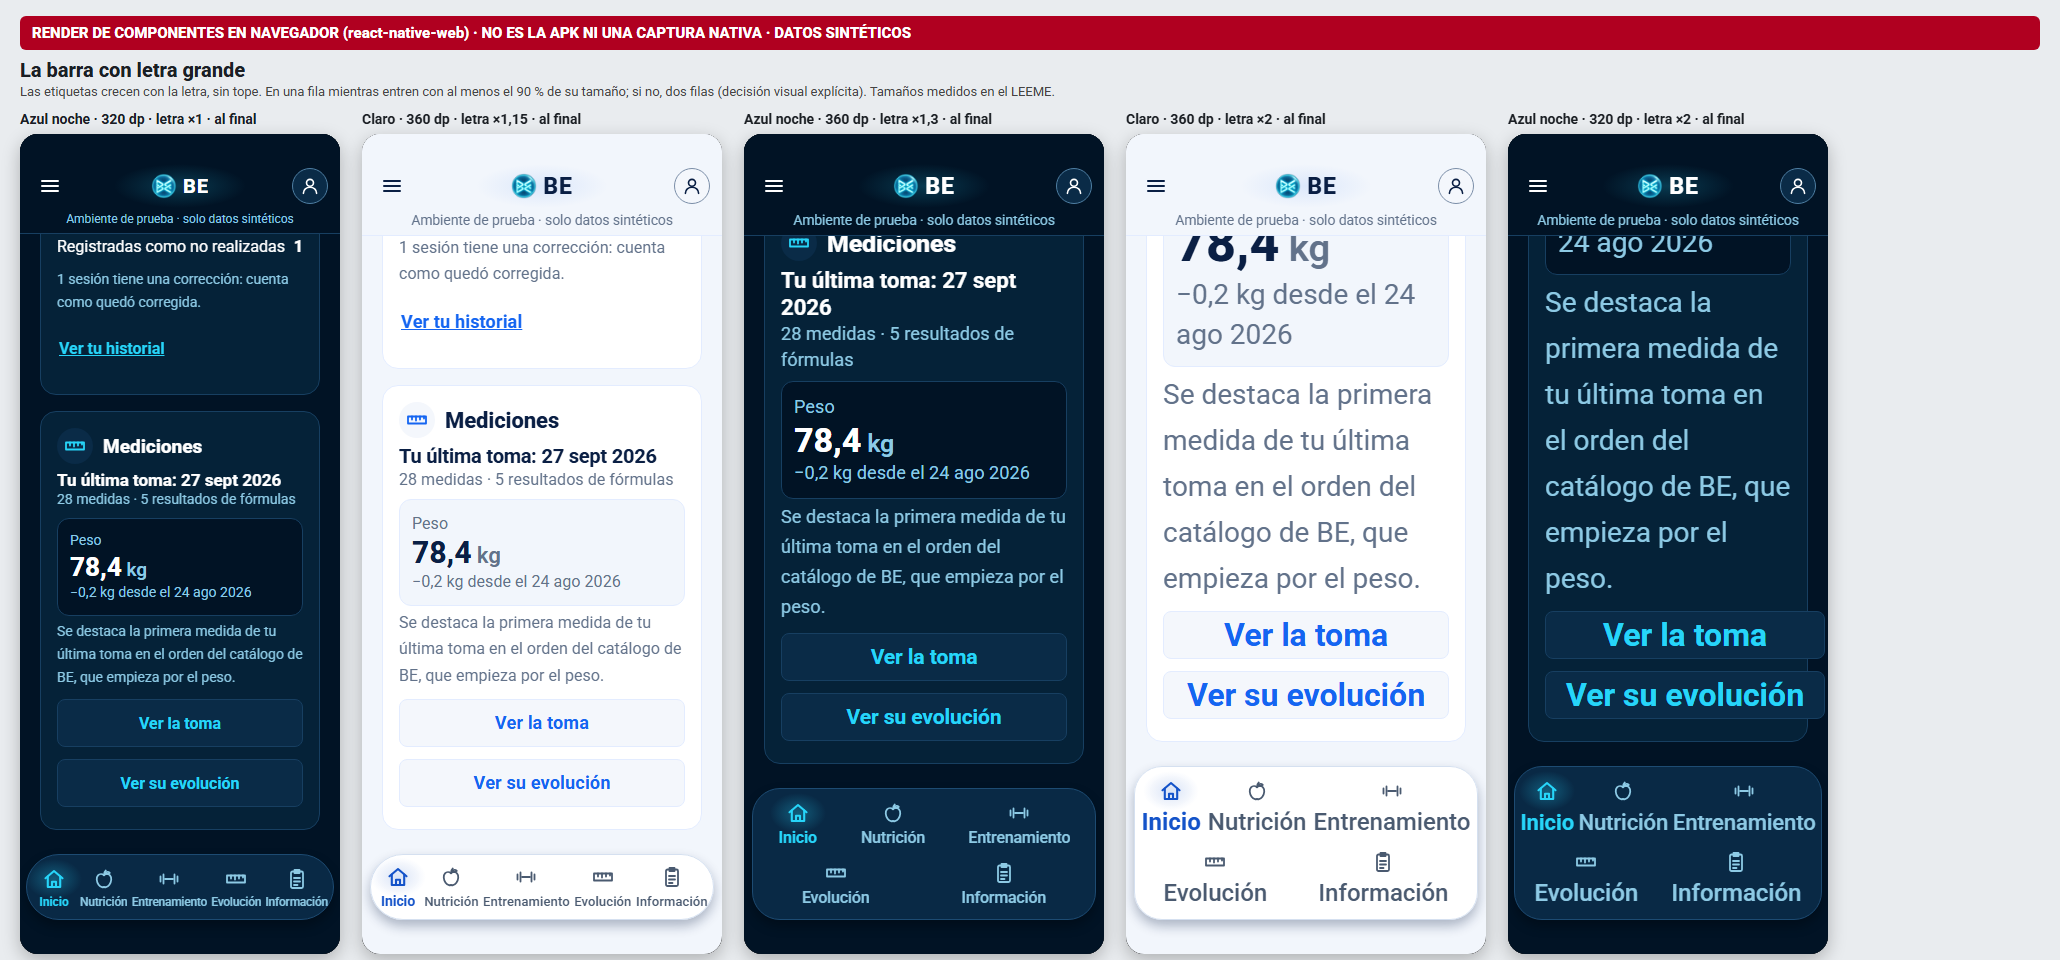
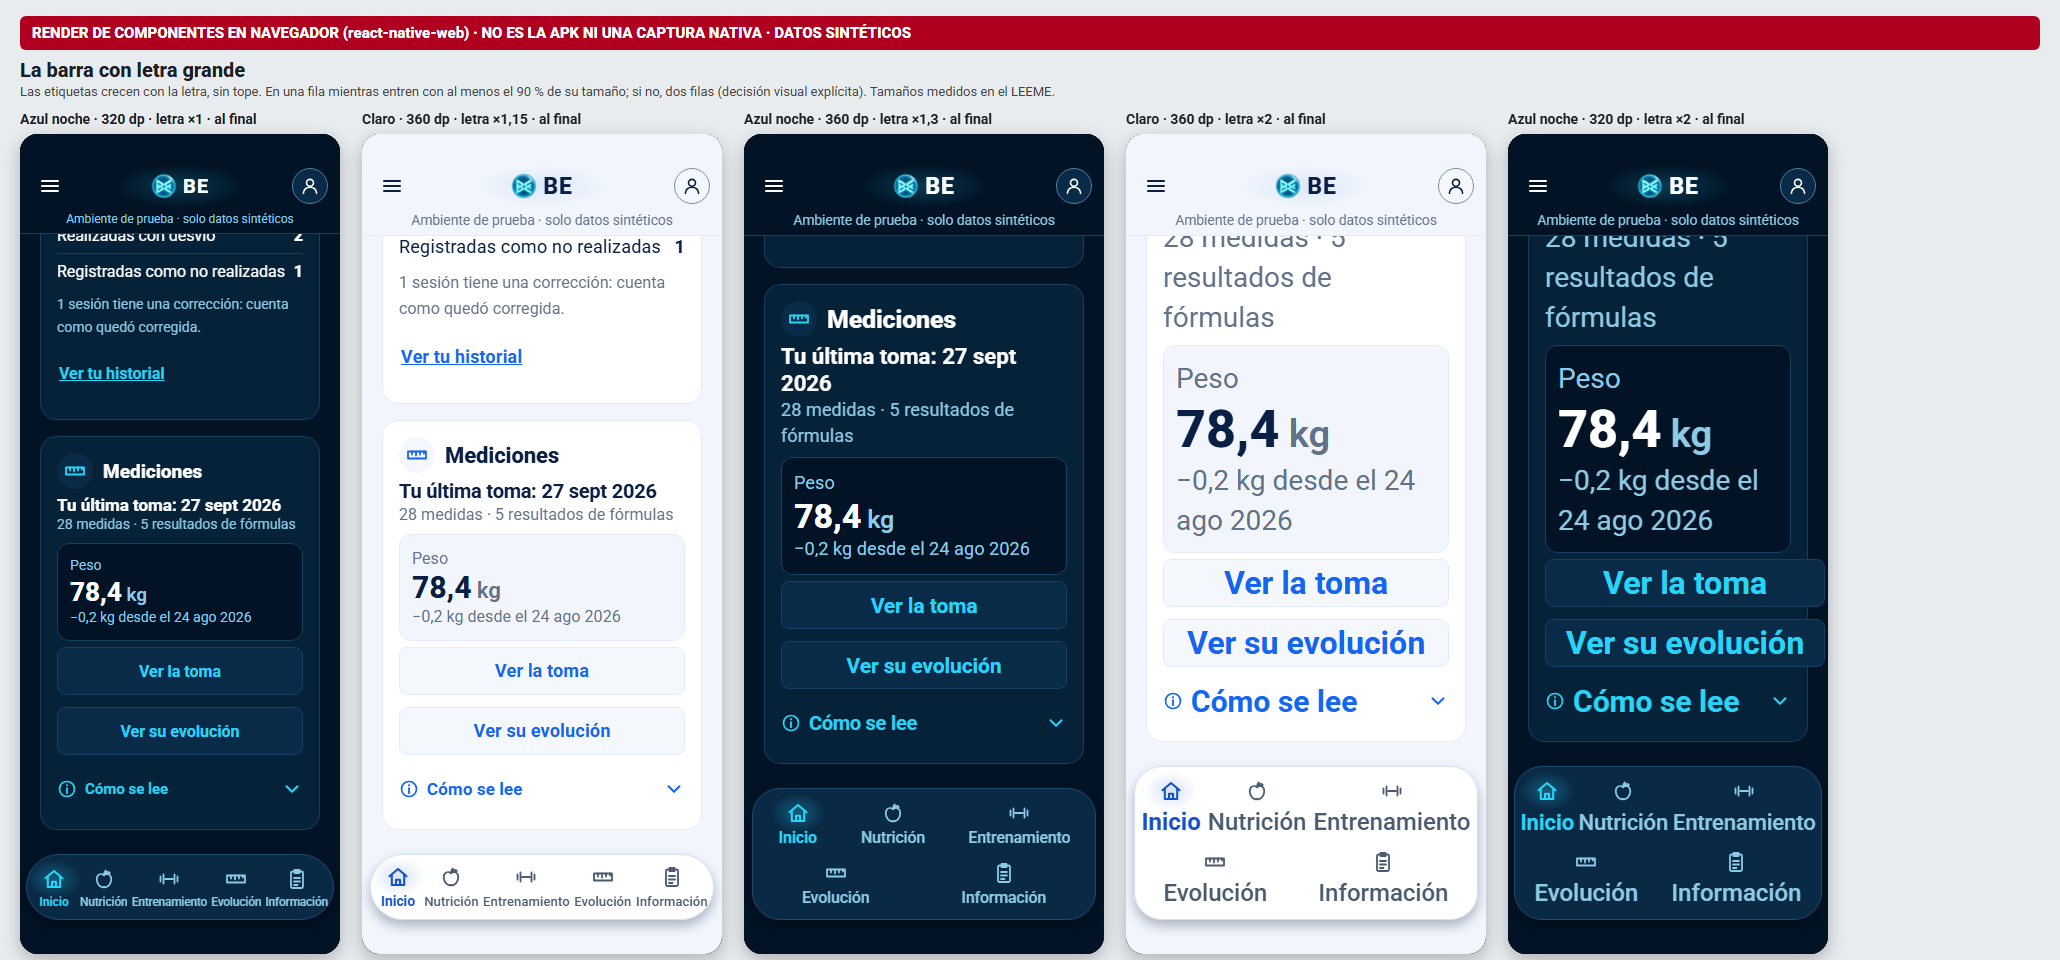
Evidencia y guía del pulido del mapa: cuatro capturas individuales, antes y después, encuadres y control de cortes
- Capturas 12 a 15. Una pantalla cada una y al doble de píxeles, para verlas en el teléfono sin ampliar:
  - Perímetros con letra normal;
  - Pliegues con letra normal;
  - Indicadores con letra normal;
  - la adaptación con letra ×1,3.
- Capturas 16 y 17: antes (6acc4c0) y después, con el mismo simulador y los mismos datos.
- Captura 18: los encuadres A (el actual), B (la elegida) y C (más recortada).
- Capturas 01 a 11, rehechas con la candidata del pulido. De la 05 a la 09, los teléfonos son más altos en lugar de
  desplazados.
- Herramientas:
  - cortes.js compara el ancho de cada texto de una línea con el de su caja. En 19 configuraciones, ninguno quedó
    cortado.
  - capturar-pulido.sh hace las capturas 12 a 18.
  - construir.mjs suma BE_REPO, BE_DEPENDENCIAS, SALIDA y ENCUADRE, para compilar el «antes» y la variante C sin tocar
    el código. Se verificó que reproduce byte a byte la candidata y el «antes».
  - cdp.mjs suma la escala de pantalla, y comparacion.html la página y el nombre de cada teléfono.
  - Un .gitignore local deja fuera lo generado.
- LEEME: el pulido con sus números, lo comprobado y los límites del simulador. También dice que las referencias visuales
  del pedido no llegaron.
- Guía de UX: pestañas y píldoras, vidrio, encuadre y filas.
- INICIO-Y-NAVEGACION §4 bis: cabecera, encuadre, filas, indicadores y D-3.

TRACE: DL-117 (pulido del 2026-10-04)
TEST:
- Documental y de evidencia.
[…]

diff --git a/EVIDENCIA/INICIO-Y-NAVEGACION/herramientas/render-navegador/salida/comparacion.html b/EVIDENCIA/INICIO-Y-NAVEGACION/herramientas/render-navegador/salida/comparacion.html
@@ -27,16 +27,16 @@
   document.getElementById('nota').textContent = p.get('nota') || '';
   const NOMBRE = { 'azul-noche': 'Azul noche', claro: 'Claro' };
   for (const m of (p.get('m') || '').split(';').filter(Boolean)) {
-    const [escena, tema, ancho, escala, alto = '780', extra = ''] = m.split('|');
+    const [escena, tema, ancho, escala, alto = '780', extra = '', pagina = 'telefono', nombre = ''] = m.split('|');
     const marco = document.createElement('div');
     marco.className = 'marco';
     const rotulo = document.createElement('div');
     rotulo.className = 'rotulo';
-    rotulo.textContent = `${NOMBRE[tema] || tema} · ${ancho} dp · letra ×${escala.replace('.', ',')}${extra.includes('final=1') ? ' · al final' : ''}${extra.includes('abajo=48') ? ' · 3 botones' : ''}`;
+    rotulo.textContent = `${nombre ? nombre + ' · ' : ''}${NOMBRE[tema] || tema} · ${ancho} dp · letra ×${escala.replace('.', ',')}${extra.includes('final=1') ? ' · al final' : ''}${extra.includes('abajo=48') ? ' · 3 botones' : ''}`;
     const f = document.createElement('iframe');
     f.width = ancho;
     f.height = alto;
-    f.src = `telefono.html?escena=${escena}&tema=${tema}&ancho=${ancho}&alto=${alto}&escala=${escala}${extra ? '&' + extra : ''}`;
+    f.src = `${pagina}.html?escena=${escena}&tema=${tema}&ancho=${ancho}&alto=${alto}&escala=${escala}${extra ? '&' + extra : ''}`;
     marco.append(rotulo, f);
     document.getElementById('fila').append(marco);
   }

diff --git a/EVIDENCIA/INICIO-Y-NAVEGACION/herramientas/render-navegador/cortes.js b/EVIDENCIA/INICIO-Y-NAVEGACION/herramientas/render-navegador/cortes.js
@@ -1,0 +1,22 @@
+(() => {
+  // Los textos que no entran en su caja: con numberOfLines, react-native-web los corta con «…» sin avisar. Se mide con
+  // decimales (Range), como el ajuste de la barra. Devuelve cuántos textos se miraron y cuáles quedaron cortados.
+  const docs = [document, ...[...document.querySelectorAll('iframe')].map((f) => f.contentDocument).filter(Boolean)];
+  const cortados = [];
+  let mirados = 0;
+  for (const d of docs) {
+    for (const el of d.querySelectorAll('div[dir], span[dir]')) {
+      if (!el.textContent || el.children.length > 0) continue;
+      const estilo = d.defaultView.getComputedStyle(el);
+      const recorta = estilo.overflow === 'hidden' || estilo.textOverflow === 'ellipsis' || estilo.webkitLineClamp !== 'none';
+      if (!recorta) continue;
+      mirados++;
+      const rango = d.createRange();
+      rango.selectNodeContents(el);
+      const r = rango.getBoundingClientRect();
+      const caja = el.getBoundingClientRect();
+      if (r.width > caja.width + 0.5 || el.scrollHeight > el.clientHeight + 1) cortados.push(el.textContent.slice(0, 40));
+    }
+  }
+  return JSON.stringify({ mirados, cortados });
+})()

diff --git a/EVIDENCIA/INICIO-Y-NAVEGACION/herramientas/render-navegador/salida/telefono-antes.html b/EVIDENCIA/INICIO-Y-NAVEGACION/herramientas/render-navegador/salida/telefono-antes.html
@@ -1,0 +1,24 @@
+<!doctype html>
+<html lang="es">
+<head>
+<meta charset="utf-8">
+<meta name="viewport" content="width=device-width, initial-scale=1">
+<title>Render en navegador</title>
+<link rel="preconnect" href="https://fonts.googleapis.com">
+<link rel="stylesheet" href="https://fonts.googleapis.com/css2?family=Roboto:wght@400;500;600;700;800;900&display=block">
+<style>
+  html, body { margin: 0; padding: 0; background: #2b2b2b; }
+  #root { position: relative; width: var(--ancho); height: var(--alto); overflow: hidden; display: flex; }
+  * { font-family: Roboto, Arial, sans-serif !important; }
+</style>
+</head>
+<body>
+<div id="root"></div>
+<script>
+  const p = new URLSearchParams(location.search);
+  document.documentElement.style.setProperty('--ancho', (p.get('ancho') || '360') + 'px');
+  document.documentElement.style.setProperty('--alto', (p.get('alto') || '780') + 'px');
+</script>
+<script src="maqueta-antes.js"></script>
+</body>
+</html>

diff --git a/EVIDENCIA/INICIO-Y-NAVEGACION/herramientas/render-navegador/salida/telefono-c.html b/EVIDENCIA/INICIO-Y-NAVEGACION/herramientas/render-navegador/salida/telefono-c.html
@@ -1,0 +1,24 @@
+<!doctype html>
+<html lang="es">
+<head>
+<meta charset="utf-8">
+<meta name="viewport" content="width=device-width, initial-scale=1">
+<title>Render en navegador</title>
+<link rel="preconnect" href="https://fonts.googleapis.com">
+<link rel="stylesheet" href="https://fonts.googleapis.com/css2?family=Roboto:wght@400;500;600;700;800;900&display=block">
+<style>
+  html, body { margin: 0; padding: 0; background: #2b2b2b; }
+  #root { position: relative; width: var(--ancho); height: var(--alto); overflow: hidden; display: flex; }
+  * { font-family: Roboto, Arial, sans-serif !important; }
+</style>
+</head>
+<body>
+<div id="root"></div>
+<script>
+  const p = new URLSearchParams(location.search);
+  document.documentElement.style.setProperty('--ancho', (p.get('ancho') || '360') + 'px');
+  document.documentElement.style.setProperty('--alto', (p.get('alto') || '780') + 'px');
+</script>
+<script src="maqueta-c.js"></script>
+</body>
+</html>

diff --git a/docs/ux/INICIO-Y-NAVEGACION.md b/docs/ux/INICIO-Y-NAVEGACION.md
@@ -197,8 +197,9 @@ primera respuesta.
 **Lo que se descarga.**
 - TRN-19-LISTA trae cada sesión completa, con su plan, su original y sus correcciones, para contarlas: 105 KB en el caso
   típico y 539 KB con muchas correcciones. Inicio guarda solo la cuenta.
-- La API no comprime sus respuestas. Con gzip, la visita típica bajaría de 176 KB a 8,5 KB y de 1,50 a 0,62 s en 4G
-  lento; la del historial pesado, de 610 KB a 14 KB y de 13,9 a 1,7 s en 3G lento. No se verificó si Render comprime en
+- La API no comprime sus respuestas. **Simulación local, no medición:** comprimiendo con gzip en la simulación, la
+  visita típica bajaría de 176 KB a 8,5 KB y de 1,50 a 0,62 s en 4G lento; la del historial pesado, de 610 KB a 14 KB y
+  de 13,9 a 1,7 s en 3G lento. No se midió en el teléfono ni contra la API de test, y no se verificó si Render comprime en
   su borde: las rutas públicas de la API son chicas y no alcanzan para saberlo.
 - NUT-16-LISTA trae una sola fila, y FRM-06 como mucho tres solicitudes.
 
@@ -213,18 +214,30 @@ el comportamiento, no la afirmación.
 - **Las tomas.** T1, T2, T3… son las evaluaciones del período, de la más vieja a la más nueva, con su fecha real
   (`tomasDelPeriodo`, en `@be/domain`). Cada toma es una evaluación (`sourceEvaluationId`), **nunca una fecha**: dos
   evaluaciones del mismo día son dos tomas. T1 es la primera toma del período que se ve, no la primera de la historia: el
-  período está escrito debajo del selector.
+  período está en «Cómo se lee».
+- **La cabecera** (pulido del 2026-10-04). Arriba, las cuatro vistas son pestañas subrayadas de borde a borde. Debajo
+  van una fecha principal y un contexto breve («Última toma · se compara con el 25 jul 2026»), y las tomas en una fila de
+  chips que se desplaza de costado. La familia (Perímetros o Pliegues) es un control compacto dentro de la lámina. Así
+  vistas, tomas y familia no se confunden. Las explicaciones largas, en «Cómo se lee».
 - **Cuatro vistas, sin otro nivel de navegación** (cierre del 2026-10-04). Mapa corporal, Indicadores, Comparar y
   Evolución. Mapa corporal e Indicadores reemplazan a la vista «Toma»: son la misma toma, partida entre lo que tiene sitio
   en la figura y lo que no. «Ver la toma», desde Inicio, abre el mapa si la toma tiene perímetros o pliegues, y si no, los
   indicadores.
 - **Mapa corporal.** La figura con los sitios medidos en la toma elegida. Cada fila de tarjeta lleva el valor, la
-  diferencia con el anterior comparable y, debajo, el gráfico chico de puntos de esa medida, unido a su sitio por la misma
-  guía. Con letra ×1,3 o más, la figura va con números y cada fila de la lista de abajo lleva su gráfico. Los sitios no se
+  diferencia con el anterior comparable y el gráfico chico de puntos de esa medida, unida a su sitio por la misma guía.
+  Con letra ×1,3 o más, la figura va con números y cada fila de la lista de abajo lleva su gráfico. Los sitios no se
   movieron.
+- **El encuadre y las filas** (pulido del 2026-10-04). El cuerpo es grande, empieza arriba, va a la derecha y lo recorta
+  el borde derecho, donde no hay sitios. Su tamaño sale del ancho y de los sitios posibles de la familia, no de cuántas
+  medidas hay: sumar medidas alarga la lista hacia abajo, no achica el cuerpo. Todas las filas tienen la misma forma:
+  el nombre a la izquierda, el valor a la derecha (en la misma línea o, si el nombre es largo, en la de abajo) y, al
+  final, la diferencia y los puntos. En una tarjeta, los gráficos tienen el mismo ancho. Las tarjetas son de vidrio:
+  borde fino, brillo arriba y sombra suave.
 - **Indicadores.** Tarjetas sin cuerpo para lo que no tiene sitio en la figura: peso, talla, diámetros y los resultados
   de las fórmulas, cada uno con su método. Dos columnas cuando entran, y una cuando la letra o el ancho lo piden: una
-  tarjeta no parte su valor (`columnasDeIndicadores`, con anchos medidos en Roboto).
+  tarjeta no parte su valor (`columnasDeIndicadores`, con anchos medidos en Roboto). La tarjeta muestra el nombre, que
+  identifica el método, el valor, la diferencia, la marca (corregida, si corresponde) y los puntos; «Antes» y la
+  descripción completa del método van en el detalle.
 - **Una sola elección de toma y una de medida.** La toma elegida cambia a la vez el mapa, los indicadores, sus gráficos
   chicos y la comparación. La medida elegida, en el mapa o en los indicadores, es la misma de Evolución
   (`mi-evolucion:medida`): su detalle trae el gráfico más grande, la lista equivalente y «Ver su evolución», que abre
@@ -234,9 +247,10 @@ el comportamiento, no la afirmación.
   escala. Sin líneas: una toma sin la medida es un hueco, y una con otro protocolo, método o unidad lleva una raya corta
   sobre la base y dice «no comparable» en su lista (`graficos-por-toma.ts`). La toma elegida va resaltada. El ancho es
   el del lugar: con doce tomas, los puntos se achican y no desbordan (probado con 1, 3, 6 y 12 tomas).
-- **Una toma que puede estar incompleta (D-3).** Si otra evaluación cayó el mismo día, la pantalla lo avisa, nombra la
-  otra toma y cuenta «medidas a la vista». «Cómo se lee» dice qué puede no verse de cualquier toma: la API muestra una
-  medición por día y por medida, y no muestra una medición anulada o con correcciones que no se pueden ordenar.
+- **Una toma que puede estar incompleta (D-3).** Si otra evaluación cayó el mismo día, la pantalla lo avisa en una línea
+  que nombra la otra toma, y «Por qué» abre el detalle, que cuenta las medidas y los resultados que se ven. «Cómo se
+  lee» dice qué puede no verse de cualquier toma: la API muestra una medición por día y por medida, y no muestra una
+  medición anulada o con correcciones que no se pueden ordenar.
 - **Lo que no cambia.** Comparar y el gráfico detallado por medida. Ningún método se ocultó ni se quitó: la propuesta de
   simplificación sigue en [MEDIDAS-Y-METODOS-EN-LA-APK.md](MEDIDAS-Y-METODOS-EN-LA-APK.md), sin implementar.
 - **Revisión visual.** Renders de los componentes reales en el navegador, no capturas nativas:
@@ -248,10 +262,11 @@ el comportamiento, no la afirmación.
   paginado. Mientras tanto, Inicio muestra lo último que se registró, con su fecha, y no lo presenta como un resumen
   del período.
 - **D-2.** No hay nombre ni foto en el perfil (DL-009). El saludo y el avatar quedan neutros.
-- **D-4.** La actividad de entrenamiento cuenta sesiones que descarga completas (TRN-19-LISTA). Medido en el cierre del
-  2026-10-04 (§4): un agregado bajaría la tarjeta de 1,50 a 0,58 s en 4G lento, pero comprimir las respuestas lleva toda
-  la visita a 0,62 s sin un endpoint nuevo ni un cambio de contrato. El agregado no se justifica todavía: primero, saber
-  si Render comprime y, si no, comprimir en la API.
+- **D-4, diferida.** La actividad de entrenamiento cuenta sesiones que descarga completas (TRN-19-LISTA). En la
+  simulación local del cierre del 2026-10-04 (§4), un agregado bajaría la tarjeta de 1,50 a 0,58 s en 4G lento, y
+  comprimir las respuestas llevaría toda la visita a 0,62 s sin un endpoint nuevo ni un cambio de contrato. Son números
+  simulados, no medidos. No se crea el agregado: primero, saber si Render comprime y, si no, decidir la compresión en la
+  API.
 - **D-3.** La API proyecta una observación efectiva por día y medida. Una toma se reconstruye por su `sourceEvaluationId`.
   Si dos evaluaciones caen el mismo día, de la tapada se ve solo lo que la API expone, y desde el cierre del 2026-10-04 la
   pantalla lo dice (§4 bis). Lo mismo pasa con un resultado calculado con dos métodos el mismo día: se ve uno, y eso no

diff --git a/docs/ux/GUIA-UX-UI.md b/docs/ux/GUIA-UX-UI.md
@@ -108,10 +108,16 @@ Desde DL-117 (Dirección, 2026-10-04). El diseño completo, con la matriz de Ini
     en la que se está lleva al principio.
   - Una revocación hecha en otro dispositivo se conoce en el próximo contacto con la API: al entrar a una zona, al
     volver del segundo plano o al escribir.
-- **Las vistas de una zona van en pestañas** (`Segmentos`) cuando la zona tiene tareas distintas sobre los mismos
+- **Las vistas de una zona van en pestañas** (`Pestanas`, APK) cuando la zona tiene tareas distintas sobre los mismos
   datos. En «Mi evolución» son cuatro: Mapa corporal, Indicadores, Comparar y Evolución. La pestaña elegida se recuerda en
   la sesión, igual que la toma elegida en el selector T1, T2, T3 y la medida elegida, que es la misma en el mapa, en los
   indicadores y en Evolución (DL-117).
+  - Las pestañas son texto con una raya debajo de la elegida, de borde a borde: se distinguen de las píldoras, que eligen
+    dentro de una vista. Antes, vistas y familia eran dos filas de píldoras iguales (pulido del 2026-10-04).
+  - En una fila mientras entran. Si no, bajan enteras a dos filas, sin partir palabras ni achicar la letra.
+- **Lo que se elige dentro de una vista va debajo de lo que la nombra.** En «Mi evolución» van la fecha principal y un
+  contexto breve, las tomas en chips que se desplazan de costado (la elegida queda a la vista), y la familia en
+  píldoras compactas dentro de la lámina. Las explicaciones largas van en «Cómo se lee».
 - **Un gráfico chico dice cómo se lee su eje.** Si los puntos van por orden de toma y no por tiempo, la pantalla lo dice,
   y el gráfico rotula sus extremos (T1 … T6). No une puntos ni rellena huecos, y su ancho es el del lugar: no desborda.
 
@@ -154,8 +160,9 @@ Desde DL-117 (Dirección, 2026-10-04). El diseño completo, con la matriz de Ini
 - **Que no se corte no alcanza.** Un texto achicado al 60 % no se corta y se lee mal. Cuando un componente achica texto,
   se documenta su tamaño efectivo en los casos angostos y con letra grande.
 - **Las opciones excluyentes van en píldoras** (`Segmentos`, APK). Si no entran, bajan enteras a la línea siguiente:
-  nunca se parte una palabra. Lo usan las preferencias visuales (la figura y los colores), las pestañas de una zona y
-  los períodos de un gráfico.
+  nunca se parte una palabra. Lo usan las preferencias visuales (la figura y los colores) y los períodos de un gráfico.
+  Dentro de la lámina van compactas (`compactos`): la familia y Hombre o Mujer, con 40 dp de alto y el área de toque
+  ampliada a 48.
 - **Escala de letra de la APK** (`ui.tsx`). Una pantalla no inventa tamaños:
   - 26, el título de la pantalla;
   - 19, el título de una sección;
@@ -198,6 +205,11 @@ Desde DL-117 (Dirección, 2026-10-04). El diseño completo, con la matriz de Ini
   - `superficieElevada` para lo que se destaca sobre ellas: el botón secundario y las fichas de fecha. La cápsula de la
     barra tiene sus propios tokens: `barraVidrio`, `barraBorde`, `barraTexto` y `barraElegido`.
   El `borde` decorativo es un azul apagado: separa sin competir. Era un azul brillante que competía con el cian.
+- **Las tarjetas sobre la figura y los indicadores son de vidrio** (`vidrio.tsx`; pulido del 2026-10-04).
+  - Las separan un borde fino y translúcido (`laminaFilo`, `vidrioFilo`), un brillo arriba que se apaga a la mitad
+    (`laminaBrillo`, `vidrioBrillo`) y una sombra suave. No llevan bordes fuertes.
+  - En Claro no hay brillo, que sobre blanco no se vería: separan la sombra y el filo.
+  - El brillo no baja el contraste del texto: la prueba de contraste lo mide sobre la mezcla.
 - **El cian orienta, no decora.** El acento (`acento`) marca lo que se elige o se toca:
   - el destino elegido de la barra;
   - los enlaces y el texto de los botones secundarios;
@@ -242,6 +254,18 @@ Desde DL-117 (Dirección, 2026-10-04). El diseño completo, con la matriz de Ini
     si una guía pasa junto a otro punto, pasa por detrás.
 - **En el teléfono, la figura es liviana.** Halos y aros chicos, guías finas, y una calle entre las tarjetas y el cuerpo
   para que las guías doblen afuera.
+- **El encuadre de la figura en el teléfono** (`ENCUADRE`, pulido del 2026-10-04).
+  - El cuerpo es grande, empieza arriba, va a la derecha y lo recorta el borde derecho, donde no hay sitios: ISAK mide
+    del lado derecho de la persona, que de frente queda a la izquierda.
+  - Su tamaño sale del ancho de la lámina y de los sitios posibles de la familia, no de cuántas medidas hay. Sumar
+    medidas alarga la lista hacia abajo: no achica el cuerpo ni deja un hueco encima.
+  - Figura, marcadores, anillos, guías y zonas de toque usan la misma transformación. Ningún centro de sitio queda fuera
+    de la vista ni debajo de una tarjeta.
+- **Las filas de una tarjeta tienen todas la misma forma.**
+  - El nombre va a la izquierda y el valor a la derecha, en la misma línea si entran o, si el nombre es largo, en la de
+    abajo. Al final, la diferencia y el gráfico chico.
+  - Los valores forman una columna. Mezclar el valor al lado y debajo del nombre lo hacía saltar de un lado al otro.
+  - En una tarjeta, los gráficos tienen el mismo ancho: los puntos de cada toma quedan en columna.
 - **La imagen exportada se equilibra.** En Medición con el cuerpo entero, la figura arranca en 290 y mide 1390. Así no
   queda una franja vacía bajo el encabezado (Dirección, 2026-10-03). Los otros encuadres son los del compositor.
 - **Selección coordinada en la figura** (APK, `figura-de-la-toma.tsx`).
